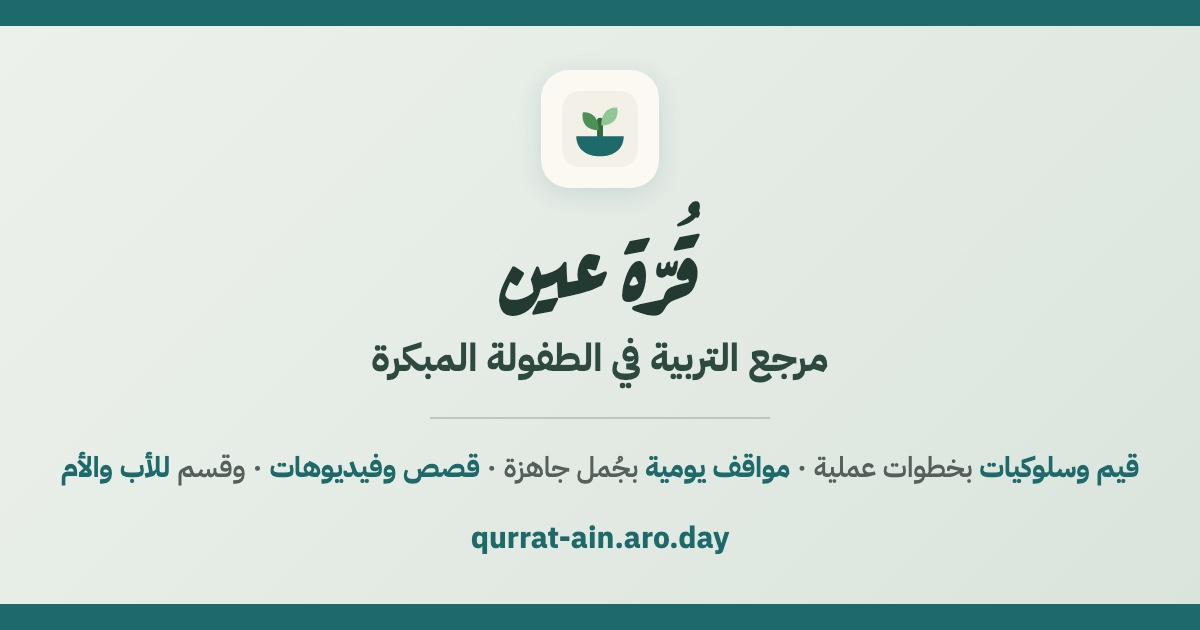
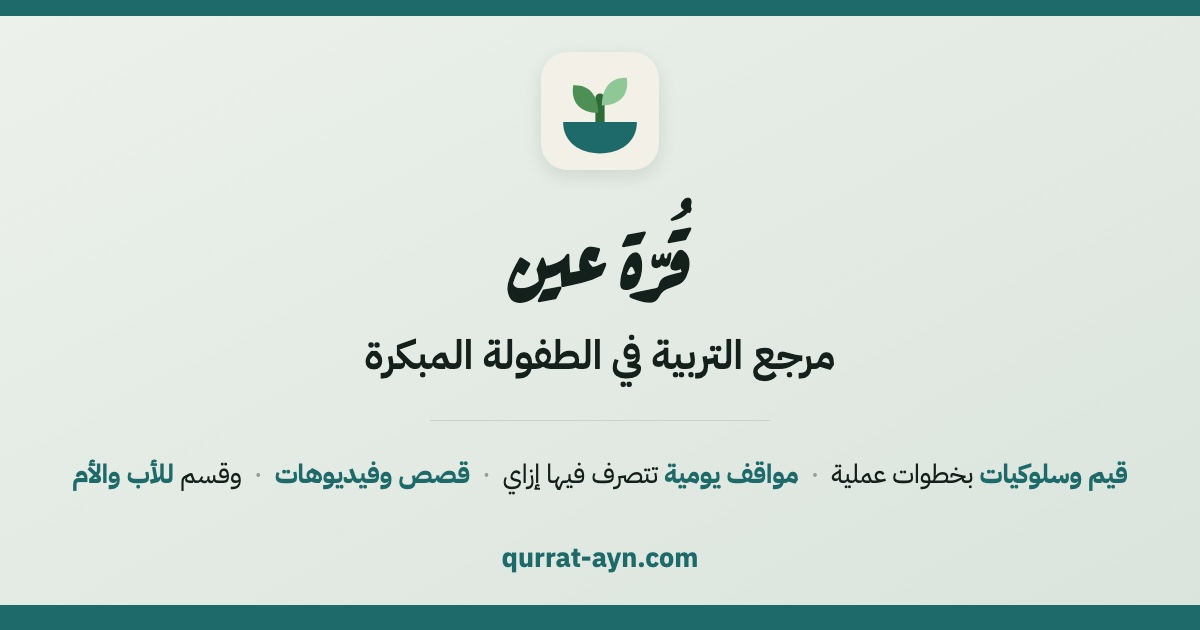
fix: صورة الـog على الدومين الجديد وبدون «جمل جاهزة»
الصورة كانت باينري متكوميت من غير مصدر، فالميتا اتحدّثت لـqurrat-ayn.com
والصورة فضلت شايلة qurrat-ain.aro.day سنة. مصدرها بقى في build/og.html
فالتغيير الجاي سطر مش إعادة تصميم.

و«مواقف يومية بجُمل جاهزة» بقت «تتصرف فيها إزاي» في الصورة وفي الميتا،
وريجيكس الختم في build.js اتظبط عليها — كان فيه الجملة القديمة بالحرف.

diff --git a/docs/index.html b/docs/index.html
@@ -4,7 +4,7 @@
 <meta charset="UTF-8">
 <meta name="viewport" content="width=device-width, initial-scale=1">
 <title>قُرّة عين — مرجع التربية في الطفولة المبكرة</title>
-<meta name="description" content="مرجع تربوي عربي للطفولة المبكرة: 78 قيمة وسلوك بخطوات عملية، 58 موقف يومي بجُمل جاهزة، 604 قصة، وأنشطة ووجبات — كل نصيحة مكتوب جنبها مصدرها وقوة أدلتها.">
+<meta name="description" content="مرجع تربوي عربي للطفولة المبكرة: 78 قيمة وسلوك بخطوات عملية، 58 موقف يومي تتصرف فيه إزاي، 604 قصة، وأنشطة ووجبات — كل نصيحة مكتوب جنبها مصدرها وقوة أدلتها.">
 <link rel="canonical" href="https://qurrat-ayn.com/">
 <meta name="robots" content="index,follow,max-image-preview:large">
 
@@ -13,7 +13,7 @@
 <meta property="og:locale" content="ar_EG">
 <meta property="og:url" content="https://qurrat-ayn.com/">
 <meta property="og:title" content="قُرّة عين — مرجع التربية في الطفولة المبكرة">
-<meta property="og:description" content="مرجع تربوي عربي للطفولة المبكرة: 78 قيمة وسلوك بخطوات عملية، 58 موقف يومي بجُمل جاهزة، 604 قصة، وأنشطة ووجبات — كل نصيحة مكتوب جنبها مصدرها وقوة أدلتها.">
+<meta property="og:description" content="مرجع تربوي عربي للطفولة المبكرة: 78 قيمة وسلوك بخطوات عملية، 58 موقف يومي تتصرف فيه إزاي، 604 قصة، وأنشطة ووجبات — كل نصيحة مكتوب جنبها مصدرها وقوة أدلتها.">
 <meta property="og:image" content="https://qurrat-ayn.com/og.jpg">
 <meta property="og:image:secure_url" content="https://qurrat-ayn.com/og.jpg">
 <meta property="og:image:type" content="image/jpeg">
@@ -23,14 +23,14 @@
 
 <meta name="twitter:card" content="summary_large_image">
 <meta name="twitter:title" content="قُرّة عين — مرجع التربية في الطفولة المبكرة">
-<meta name="twitter:description" content="مرجع تربوي عربي للطفولة المبكرة: 78 قيمة وسلوك بخطوات عملية، 58 موقف يومي بجُمل جاهزة، 604 قصة، وأنشطة ووجبات — كل نصيحة مكتوب جنبها مصدرها وقوة أدلتها.">
+<meta name="twitter:description" content="مرجع تربوي عربي للطفولة المبكرة: 78 قيمة وسلوك بخطوات عملية، 58 موقف يومي تتصرف فيه إزاي، 604 قصة، وأنشطة ووجبات — كل نصيحة مكتوب جنبها مصدرها وقوة أدلتها.">
 <meta name="twitter:image" content="https://qurrat-ayn.com/og.jpg">
 <meta name="twitter:image:alt" content="قُرّة عين — مرجع التربية في الطفولة المبكرة">
 
 <script type="application/ld+json">
 {"@context":"https://schema.org","@type":"WebSite","name":"قُرّة عين",
  "alternateName":"Qurrat Ain","url":"https://qurrat-ayn.com/","inLanguage":"ar",
- "description":"مرجع تربوي عربي للطفولة المبكرة: 78 قيمة وسلوك بخطوات عملية، 58 موقف يومي بجُمل جاهزة، 604 قصة، وأنشطة ووجبات — كل نصيحة مكتوب جنبها مصدرها وقوة أدلتها.",
+ "description":"مرجع تربوي عربي للطفولة المبكرة: 78 قيمة وسلوك بخطوات عملية، 58 موقف يومي تتصرف فيه إزاي، 604 قصة، وأنشطة ووجبات — كل نصيحة مكتوب جنبها مصدرها وقوة أدلتها.",
  "audience":{"@type":"ParentAudience","name":"أهالي أطفال الطفولة المبكرة"},
  "license":"https://github.com/MotazAbuElnasr/qurrat-ayn-parenting-guide"}
 </script>
@@ -1875,7 +1875,7 @@ if(window.QAjump)QAjump();
 }
 
 const DIALECT_NAMES={msa:"العربية الفصحى",eg:"مصري",sham:"شامي",gulf:"خليجي",maghreb:"مغربي"};
-const CONTENT_V="ea9b3d7a02";
+const CONTENT_V="73c534c782";
 const DIALECTS_AVAILABLE=["msa","eg","sham"]; /* build:dialects */
 function shellMsg(html){
  const el=document.getElementById("shellState");

diff --git a/build/og.html b/build/og.html
@@ -1,0 +1,48 @@
+<!DOCTYPE html>
+<html lang="ar" dir="rtl">
+<head>
+<meta charset="UTF-8">
+<title>og</title>
+<!-- مصدر صورة الـOG. التوليد:
+     npx playwright screenshot --viewport-size=1200,630 --wait-for-timeout=4000 build/og.html /tmp/og.png
+     sips -s format jpeg -s formatOptions 88 /tmp/og.png --out docs/og.jpg
+     الدومين والسطر اللي تحت بيتغيروا من هنا، مش من الصورة. -->
+<link rel="preconnect" href="https://fonts.gstatic.com" crossorigin>
+<link rel="stylesheet" href="https://fonts.googleapis.com/css2?family=Aref+Ruqaa:wght@700&family=IBM+Plex+Sans+Arabic:wght@400;600;700&display=swap">
+<style>
+*{box-sizing:border-box;margin:0}
+body{width:1200px;height:630px;overflow:hidden;
+ background:linear-gradient(to bottom right,#ECF1EB,#DAE4DC);
+ font-family:"IBM Plex Sans Arabic",sans-serif;color:#14201C;
+ display:flex;flex-direction:column;align-items:center;justify-content:center;gap:0}
+.bar{position:fixed;left:0;right:0;background:#1D6A6A}
+.bar.t{top:0;height:16px}
+.bar.b{bottom:0;height:25px}
+.logo{width:118px;height:118px;border-radius:26px;overflow:hidden;
+ box-shadow:0 6px 18px rgba(20,32,28,.10);margin-bottom:46px}
+.logo svg{display:block;width:100%;height:100%}
+h1{font-family:"Aref Ruqaa",serif;font-weight:700;font-size:88px;line-height:1;margin-bottom:26px}
+h2{font-weight:600;font-size:40px;line-height:1.3}
+hr{width:340px;border:0;border-top:1px solid #C9D2C8;margin:38px 0 34px}
+.tag{font-size:26px;font-weight:400;white-space:nowrap}
+.tag b{font-weight:700;color:#1D6A6A}
+.tag i{font-style:normal;color:#8FA093;padding:0 6px}
+.dom{margin-top:44px;font-size:27px;font-weight:700;color:#1D6A6A;direction:ltr}
+</style>
+</head>
+<body>
+<div class="bar t"></div>
+<div class="logo"><svg xmlns="http://www.w3.org/2000/svg" viewBox="0 0 64 64"><rect width="64" height="64" rx="15" fill="#F3F1E7"/>
+<path d="M32 40V25" stroke="#2F6B39" stroke-width="5" stroke-linecap="round"/>
+<path d="M31 33c-10 0-15-6-13.5-15 8.5-.5 13.5 5.5 13.5 15z" fill="#4E8F55"/>
+<path d="M33 29c10 0 15-6 13.5-15-8.5-.5-13.5 5.5-13.5 15z" fill="#8FC896"/>
+<path d="M12 38h40c0 11-9 17-20 17s-20-6-20-17z" fill="#1D6A6A"/>
+</svg></div>
+<h1>قُرّة عين</h1>
+<h2>مرجع التربية في الطفولة المبكرة</h2>
+<hr>
+<div class="tag"><b>قيم وسلوكيات</b> بخطوات عملية <i>·</i> <b>مواقف يومية</b> تتصرف فيها إزاي <i>·</i> <b>قصص وفيديوهات</b> <i>·</i> وقسم <b>للأب والأم</b></div>
+<div class="dom">qurrat-ayn.com</div>
+<div class="bar b"></div>
+</body>
+</html>

diff --git a/build/build.js b/build/build.js
@@ -190,12 +190,12 @@ for (const [file, rx, make] of STAMPS) {
    Egyptian bundle, which is the origin every other dialect is checked against. */
 {
   const src = JSON.parse(fs.readFileSync(path.join(DIR, 'eg.json'), 'utf8')).data;
-  const line = /مرجع تربوي عربي للطفولة المبكرة: \d+ قيمة وسلوك بخطوات عملية، \d+ موقف يومي بجُمل جاهزة، \d+ قصة/g;
+  const line = /مرجع تربوي عربي للطفولة المبكرة: \d+ قيمة وسلوك بخطوات عملية، \d+ موقف يومي تتصرف فيه إزاي، \d+ قصة/g;
   let txt = fs.readFileSync(SHELL, 'utf8');
   const hits = (txt.match(line) || []).length;
   if (!hits) { console.error('مفيش وصف في القشرة يتختم عليه'); process.exit(1); }
   txt = txt.replace(line, `مرجع تربوي عربي للطفولة المبكرة: ${src.VALUES.length} قيمة وسلوك بخطوات عملية، ` +
-    `${src.SITS.length} موقف يومي بجُمل جاهزة، ${src.ST.length + src.STX.length} قصة`);
+    `${src.SITS.length} موقف يومي تتصرف فيه إزاي، ${src.ST.length + src.STX.length} قصة`);
   fs.writeFileSync(SHELL, txt);
   console.log(`اتختم الوصف في ${hits} موضع: ${src.VALUES.length} قيمة · ${src.SITS.length} موقف · ${src.ST.length + src.STX.length} قصة`);
 }
